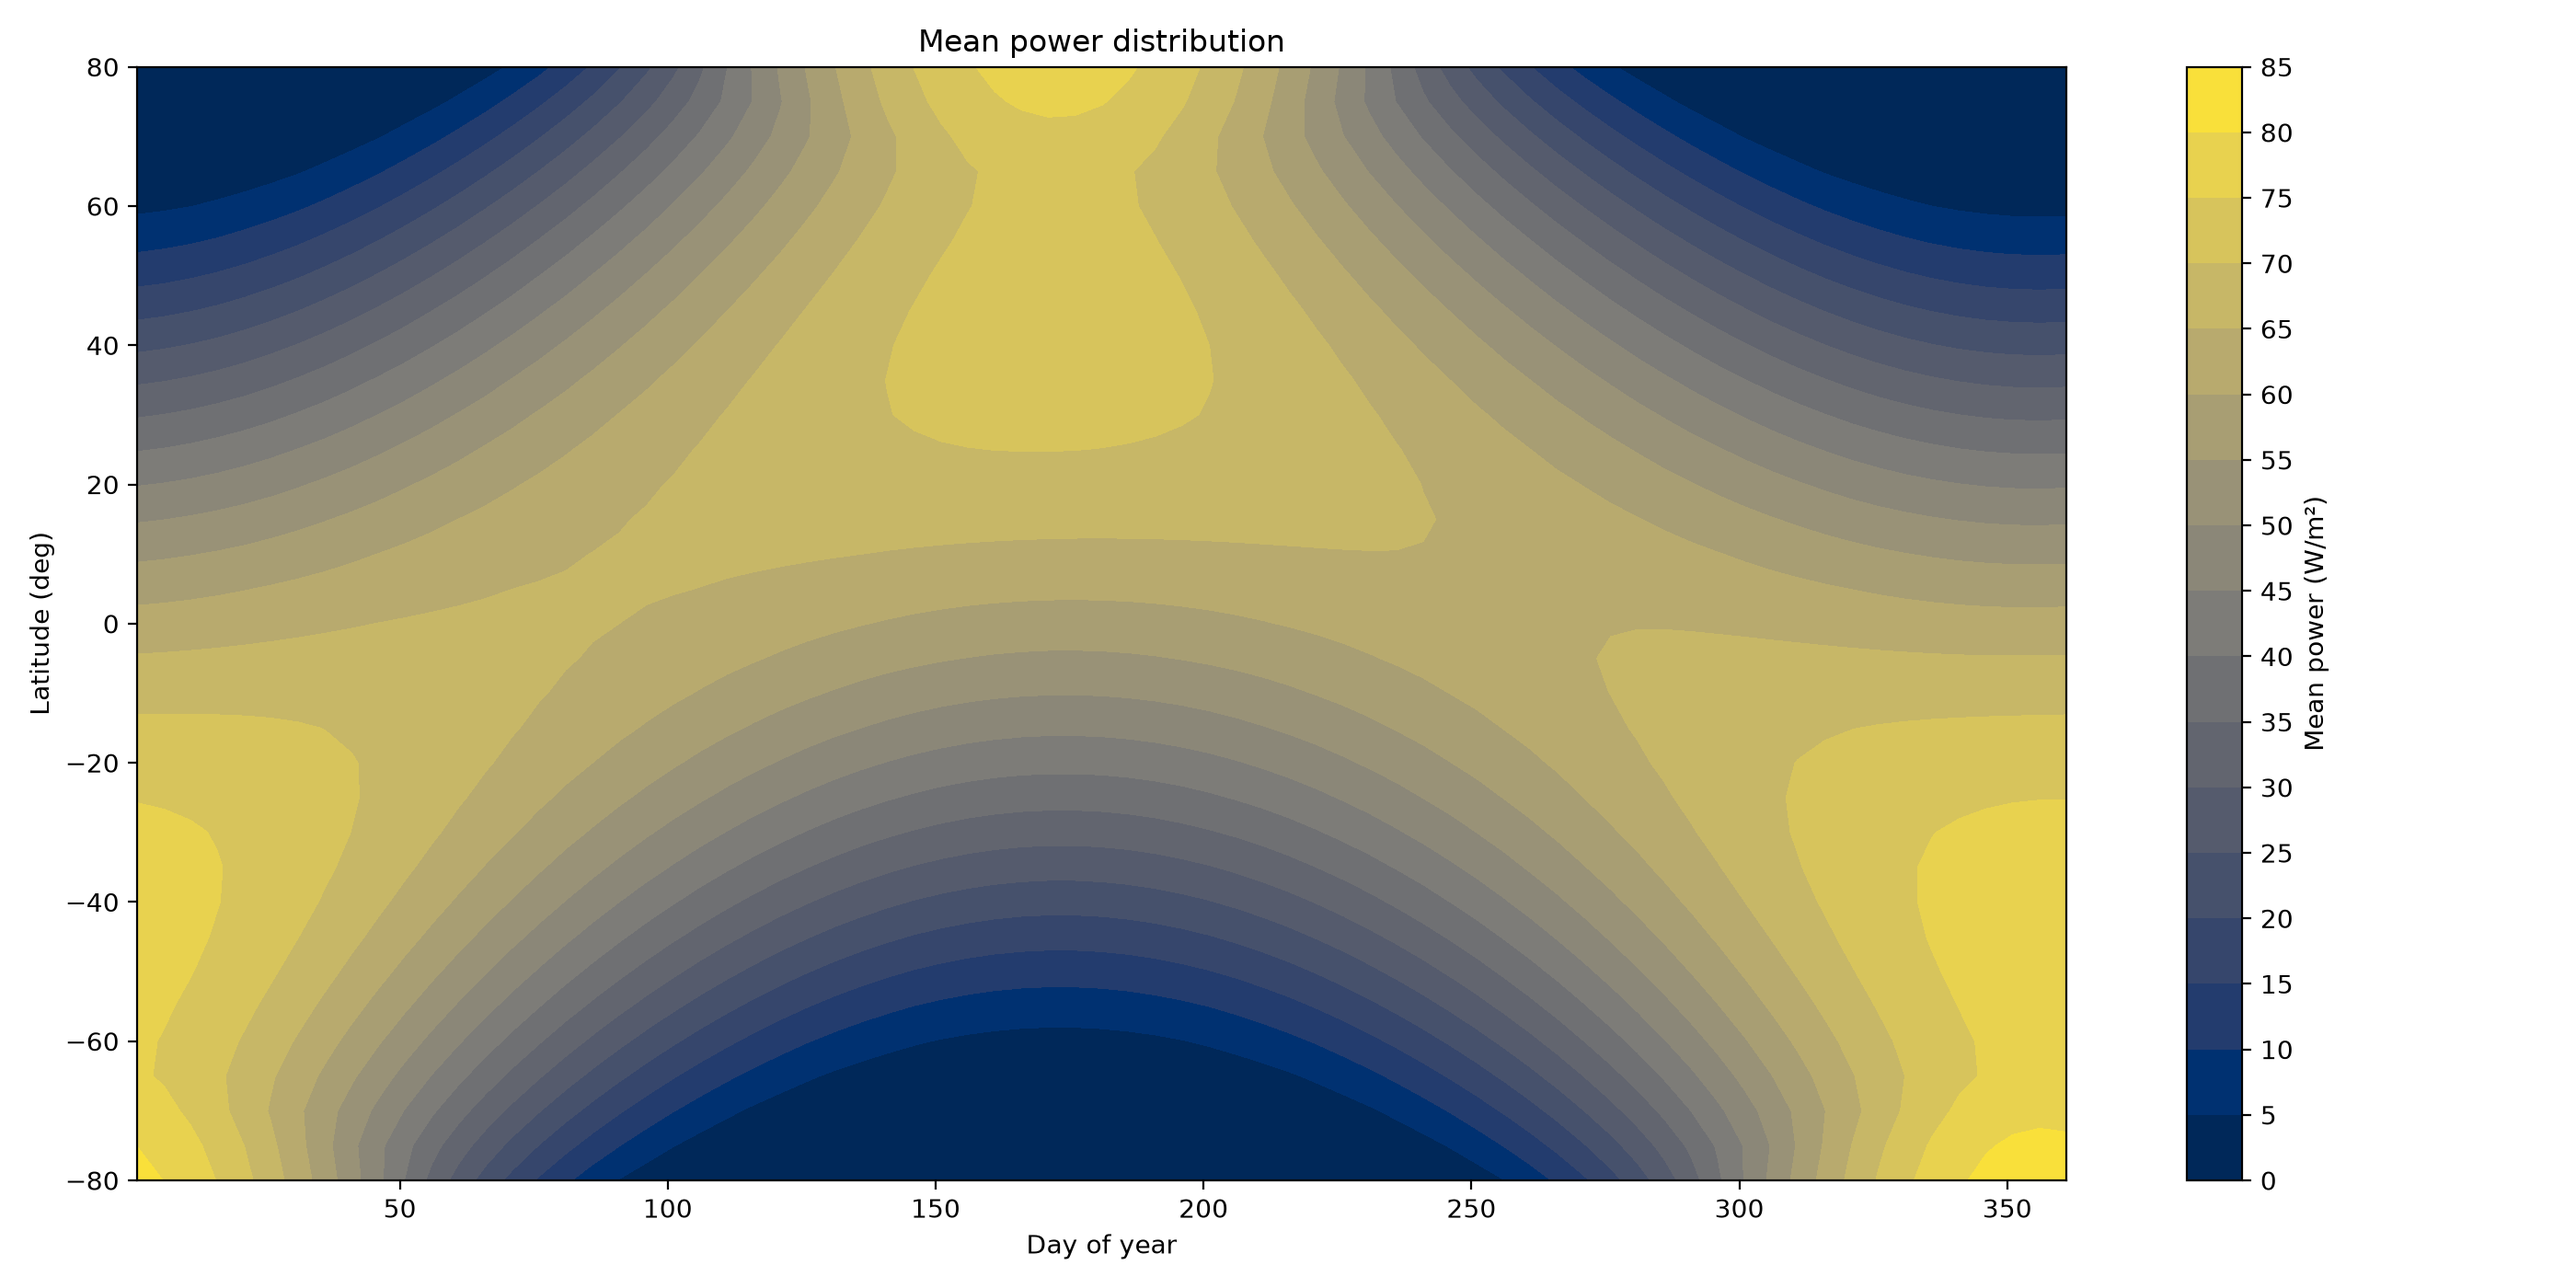
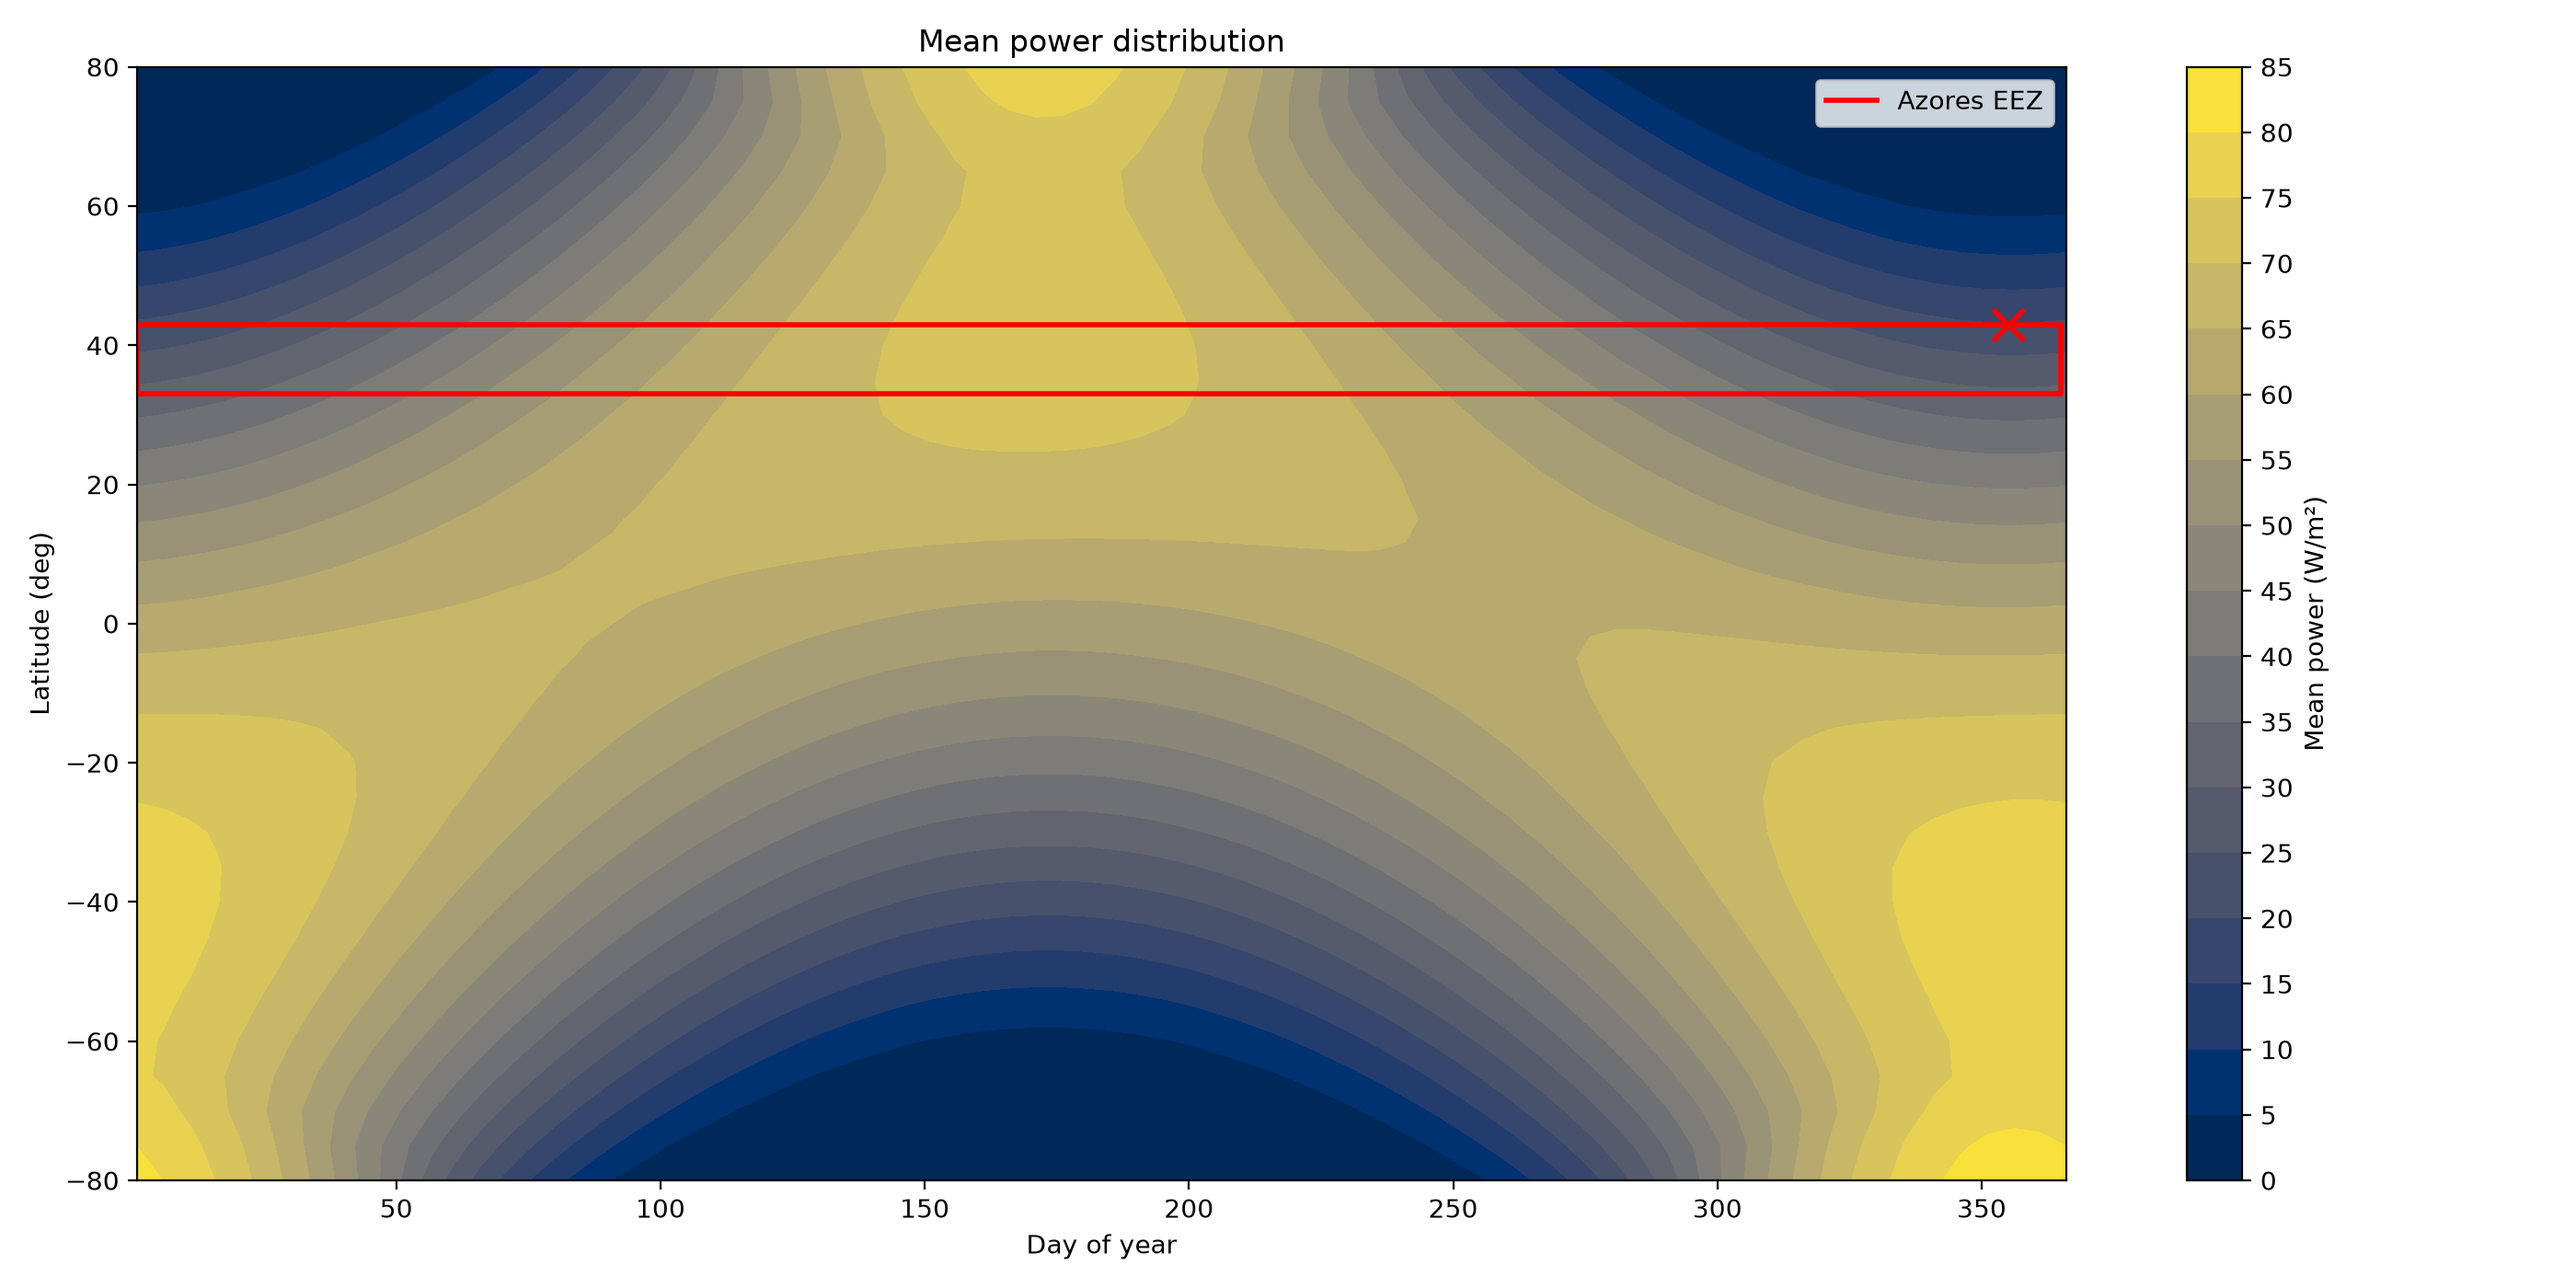
minimize_batteries_mass -> incorrect

diff --git a/calculations.py b/calculations.py
@@ -1,20 +1,83 @@
 import numpy as np
+from solarpy import irradiance_on_plane, daylight_hours
 from datetime import datetime, timedelta
+from scipy.optimize import differential_evolution
 import utilities as utils
 
 
-vnorm = np.array([0, 0, -1])  # plane pointing zenith
-
+solar_cell_efficiency = 0.15
 
 # Irradiance on a given day
 h = 20000  # altitude in meters
-lat = 0
+lat = 43
 
-energy = utils.daily_irradiance(h, lat, datetime(2027, 1, 1, 0, 0))
-print(energy)
+P_level = utils.daily_irradiance(h, lat, datetime(2027, 12, 21, 0, 0))
+print(P_level)
+
+
+
+
+def battery_and_propolsion_mass(x):
+
+    h, lat, day = x[0], x[1], int(round(x[2]))
+
+    if isinstance(day, (int, np.integer)):
+        day = datetime(2027, 1, 1, 0, 0) + timedelta(days=int(day))
+
+    rho_solar_cells = 1.0 # [kg/m2] -> mass density solar cells
+    k_prop = 0.0045 # [kg/W] -> propeller mass2power ratio (empyrical relation)
+    mb = 300 # [Wh/Kg] -> energy density LS-battery
+
+    mu_m = 0.6 # effficiency propulsion system 
+    mu_e = 0.9 # efficiency energy management system
+    mu_LS = 0.9 # efficiency LS-battery
+
+    P_level = utils.daily_irradiance(h, lat, day) # [W/m2] -> power per unit area
+    T_night = 24 - daylight_hours(day, lat)
+
+    battery_mass = P_level * T_night /mu_LS/mb
+    propolsion_mass = k_prop * P_level 
+
+    print(f'Battery mass: {battery_mass:.2f} kg/m^2')
+    print(f'Propulsion mass: {propolsion_mass:.2f} kg/m^2')
+    print(f'Night hours: {T_night:.2f} h')
+    print(f'Power density: {P_level:.2f} W/m^2')
+
+
+    return battery_mass + propolsion_mass
+
+
+
+bounds = [(10000., 24000.), # cruise altitudes
+          (33.,43.),        # Azores Exclusive Economic Zone
+          (0, 365)]         # Year round
+
+integrality = [0, 0, 1]
+
+result = differential_evolution(
+    func = battery_and_propolsion_mass, 
+    bounds = bounds, 
+    integrality = integrality,
+    seed = 42  # For reproducibility
+)
+
+print(f'Optimal altitude: {result.x[0]:.2f} m')
+print(f'Optimal latitude: {result.x[1]:.2f} deg')
+print(f'Optimal day: {datetime(2027, 1, 1, 0, 0) + timedelta(days=int(result.x[2]))} (day of the year)')
+print(f'Total mass: {battery_and_propolsion_mass(result.x):.2f} kg/m^2')
+
+
+
+
+
+
+
+
+
+
 
 # Build a latitude/day contour of the mean power distribution
-h = 20000  # altitude in meters
+# h = 20000  # altitude in meters
 
 
 start_date = datetime(2027, 1, 1, 0, 0)
@@ -22,7 +85,7 @@ end_date = datetime(2028, 1, 1, 0, 0)
 dday = 5
 days = np.array([
     start_date + timedelta(days=i)
-    for i in range(0, (end_date - start_date).days, dday)
+    for i in range(0, (end_date - start_date).days + dday, dday)
 ], dtype=object)
 
 N_lat = 80
@@ -31,7 +94,7 @@ dlat = 5
 latitudes = np.arange(S_lat, N_lat + dlat, dlat, dtype=float)
 
 
-solar_cell_efficiency = 0.15
+
 
 
 utils.yearly_mean_power_contour(h, latitudes, days, solar_cell_efficiency=solar_cell_efficiency)

diff --git a/utilities.py b/utilities.py
@@ -3,9 +3,10 @@ import matplotlib.pyplot as plt
 from solarpy import irradiance_on_plane
 from datetime import datetime, timedelta
 
+vnorm = np.array([0, 0, -1])  # plane pointing zenith
 
 
-def daily_irradiance(h, lat, start_date, vnorm = np.array([0, 0, -1]), step=timedelta(minutes=15)):
+def daily_irradiance(h, lat, start_date, solar_cell_efficiency=0.15, vnorm = np.array([0, 0, -1]), step=timedelta(minutes=15)):
     dates = []
     current = start_date
  
@@ -22,8 +23,11 @@ def daily_irradiance(h, lat, start_date, vnorm = np.array([0, 0, -1]), step=time
     energy_j_per_m2 = np.trapezoid(G, t)
 
     # Wh/m²
-    energy_wh_per_m2 = energy_j_per_m2 / 3600.0
-    return energy_wh_per_m2
+    energy_wh_per_m2 = energy_j_per_m2 / 3600.0  
+    
+    power_density_available = energy_wh_per_m2 / 24.0 * solar_cell_efficiency
+    
+    return power_density_available
 
 
 
@@ -48,10 +52,11 @@ def yearly_mean_power_contour(h, latitudes, days, solar_cell_efficiency = 0.15, 
                 h,
                 current_lat,
                 current_day,
+                solar_cell_efficiency=solar_cell_efficiency,
                 step=step,
             )
 
-            mean_power_distribution[lat_idx, day_idx] = daily_energy / 24.0 * solar_cell_efficiency
+            mean_power_distribution[lat_idx, day_idx] = daily_energy
 
             print(f'Processed latitude {current_lat:.2f} deg, day {day_number}/{total_days}: mean power = {mean_power_distribution[lat_idx, day_idx]:.2f} W/m²')
 
@@ -65,6 +70,12 @@ def yearly_mean_power_contour(h, latitudes, days, solar_cell_efficiency = 0.15, 
     ax.set_title('Mean power distribution')
     ax.set_xlim(1, total_days)
 
+    square_x = [1, 1, 365, 365, 1]
+    square_y = [33, 43, 43, 33, 33]
+    ax.plot(square_x, square_y, color='red', linewidth=2, label='Azores EEZ')
+    ax.scatter(355, 43, marker='x', color='red', s=150, linewidths=2)
+    ax.legend(loc='upper right')
+
     fig.colorbar(contour, ax=ax, ticks=levels, label='Mean power (W/m²)')
     plt.tight_layout()
     plt.savefig('mean_power_distribution.png', dpi=200)
@@ -72,3 +83,5 @@ def yearly_mean_power_contour(h, latitudes, days, solar_cell_efficiency = 0.15, 
 
     print('Contour image saved to mean_power_distribution.png')
     print('Mean power distribution shape:', mean_power_distribution.shape)
+
+
